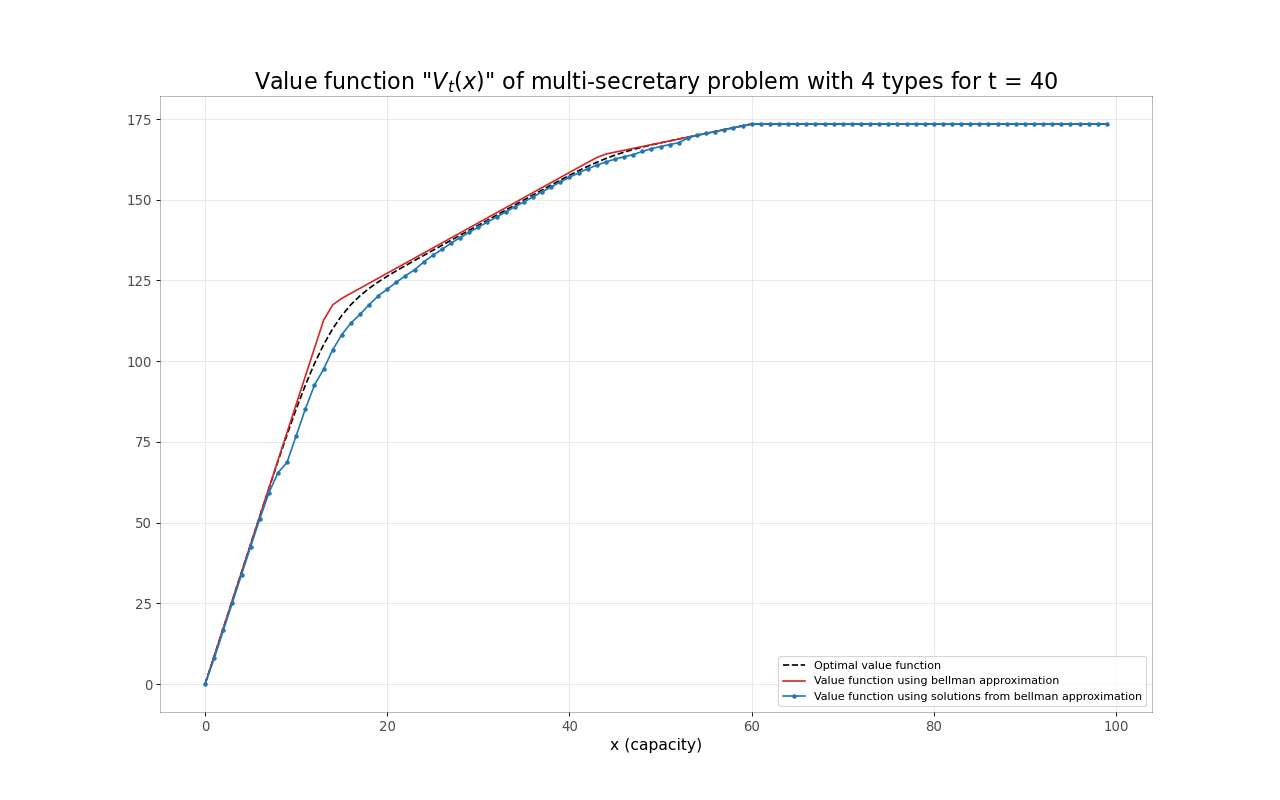
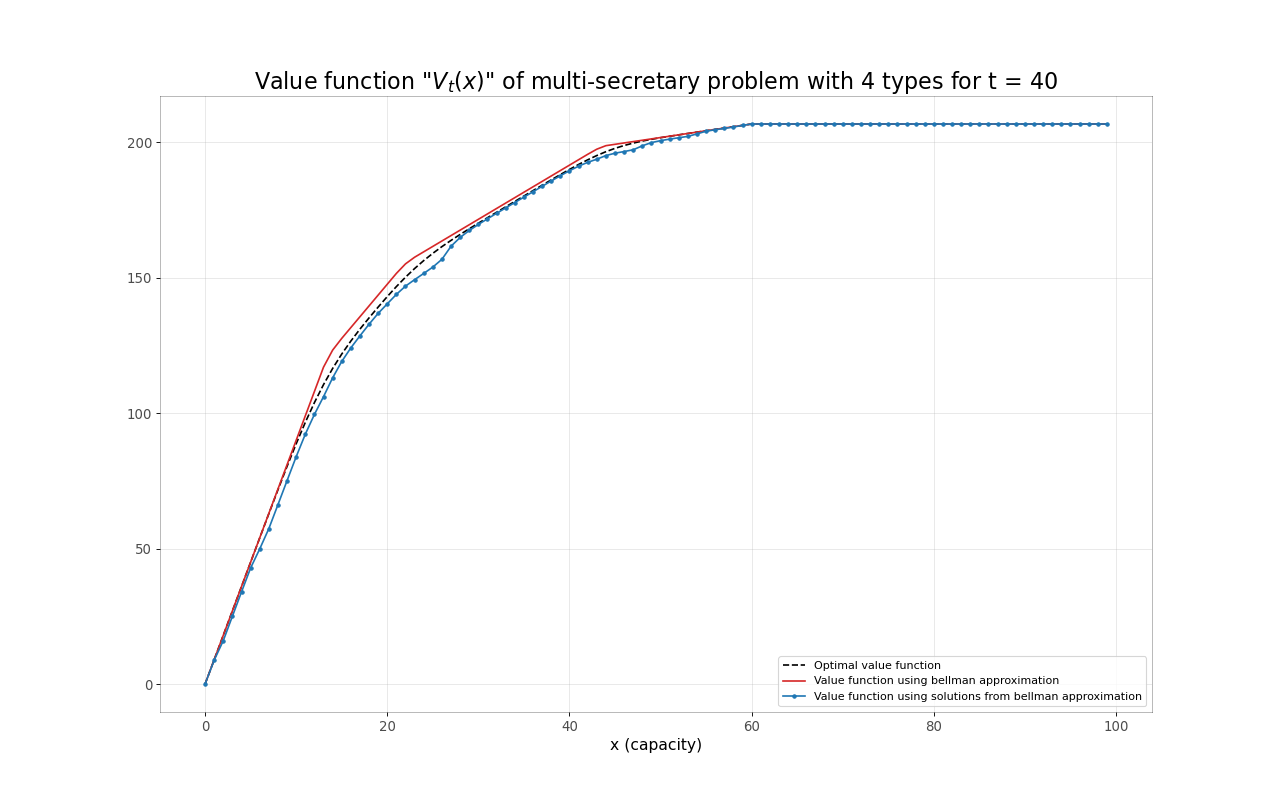
corrected the rewards

diff --git a/Code/multi-secretary.py b/Code/multi-secretary.py
@@ -103,7 +103,7 @@ if __name__ == '__main__':
 
     probabilities = uniform.rvs(size = n_types)
     probabilities /= probabilities.sum()
-    rewards = uniform.rvs(scale = 10, size = n_types)
+    rewards = np.array([4, 2, .5, 9]) #uniform.rvs(scale = 10, size = n_types)
 
     vectors = generate_vectors(n_types)
     prob_choice = vectors * probabilities #p_i * u_i where u_i are binary variables.
